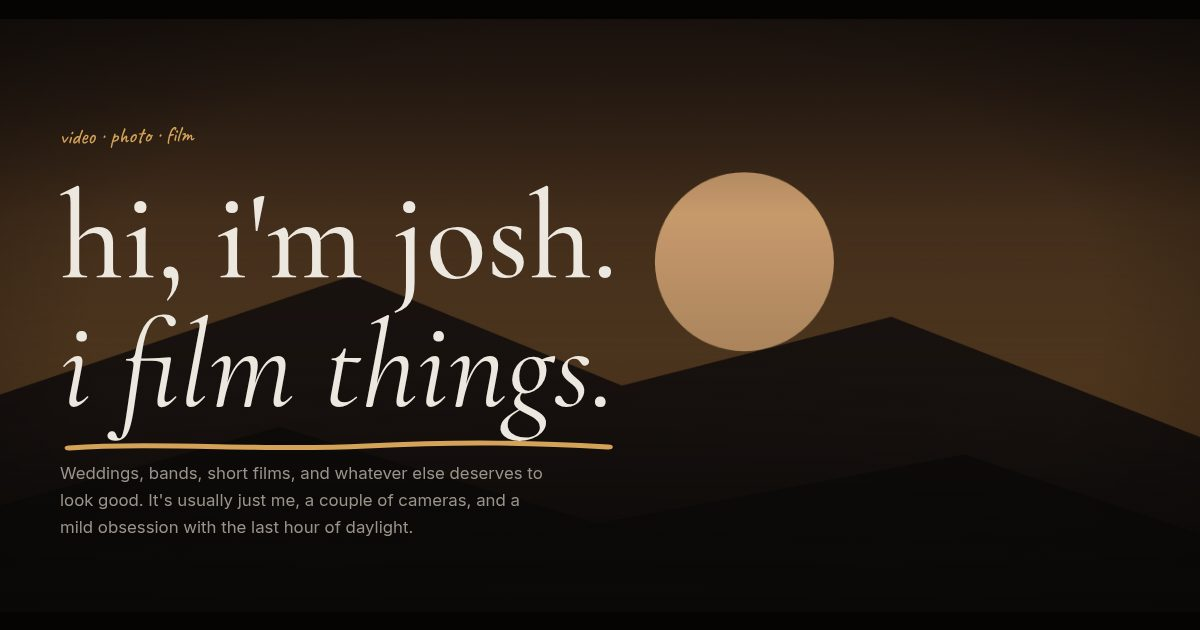
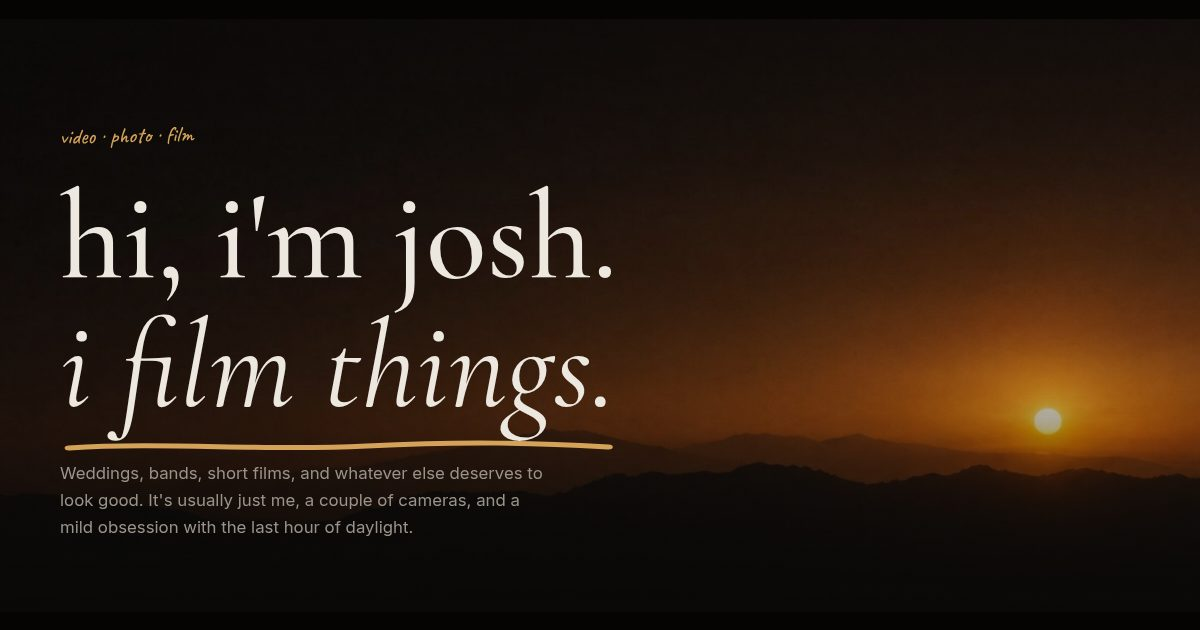
Portfolio: real cinematic hero photograph behind the headline
Replaces the generated SVG hero frame with a golden-hour ridge-line
photograph (public/hero.jpg, 2000px, 52 KB) and adds SITE.heroImage so
the backdrop is one config value — leave it blank to fall back to the
generated frame. Regenerated og.jpg from the new hero.

Claude-Session: https://claude.ai/code/session_018hBP5bv5VxGGyh9p829kiw

diff --git a/public/portfolio.html b/public/portfolio.html
@@ -693,6 +693,9 @@ const SITE = {
   location: 'will travel for good light',
   email: 'joshiott05@gmail.com',
 
+  // Photo behind the hero headline. Leave blank to use the generated frame.
+  heroImage: 'hero.jpg',
+
   // Paste a YouTube or Vimeo URL here and the showreel section goes live.
   // e.g. 'https://www.youtube.com/watch?v=XXXXXXXXXXX' or 'https://vimeo.com/123456789'
   reelUrl: '',
@@ -887,7 +890,7 @@ if (!socialsBox.children.length) socialsBox.remove();
 
 /* ── Hero + portrait backgrounds ─────────────────────────────────────────── */
 
-document.getElementById('heroBg').src = placeholderFrame('ridge', [30, 16], 'video');
+document.getElementById('heroBg').src = SITE.heroImage || placeholderFrame('ridge', [30, 16], 'video');
 document.getElementById('portraitImg').src = placeholderFrame('portrait', [28, 18], 'portrait');
 
 /* ── Showreel ────────────────────────────────────────────────────────────── */
